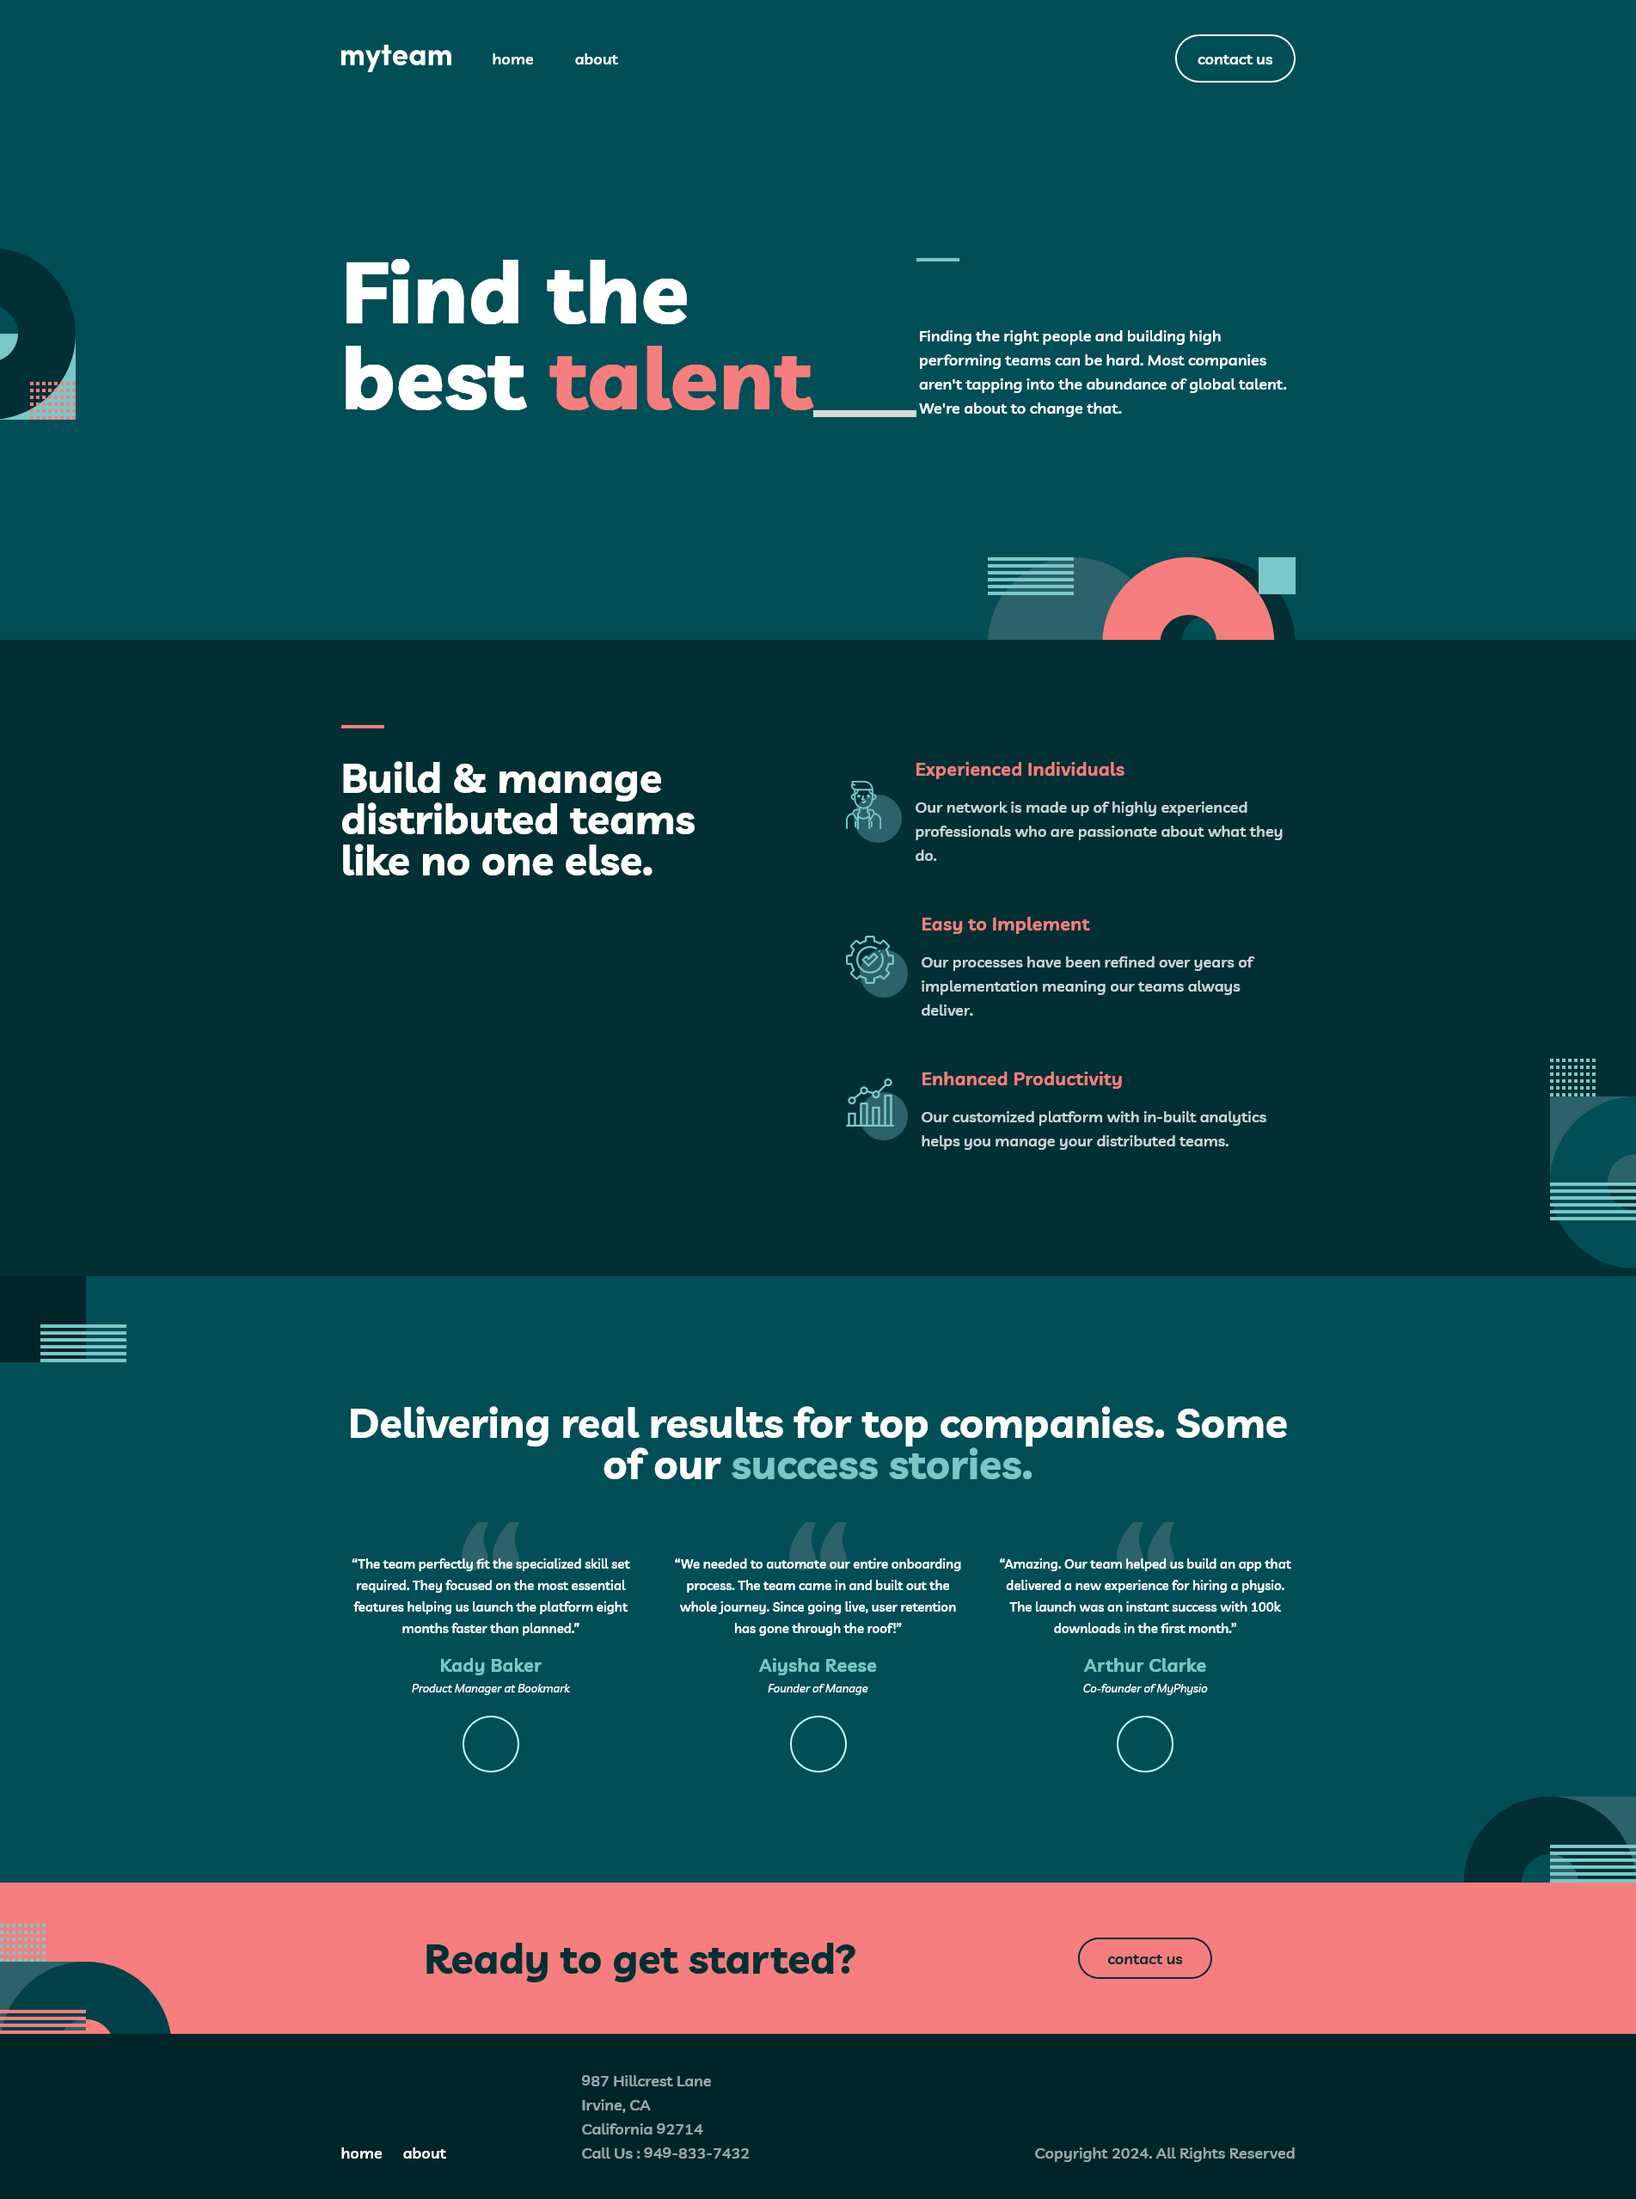
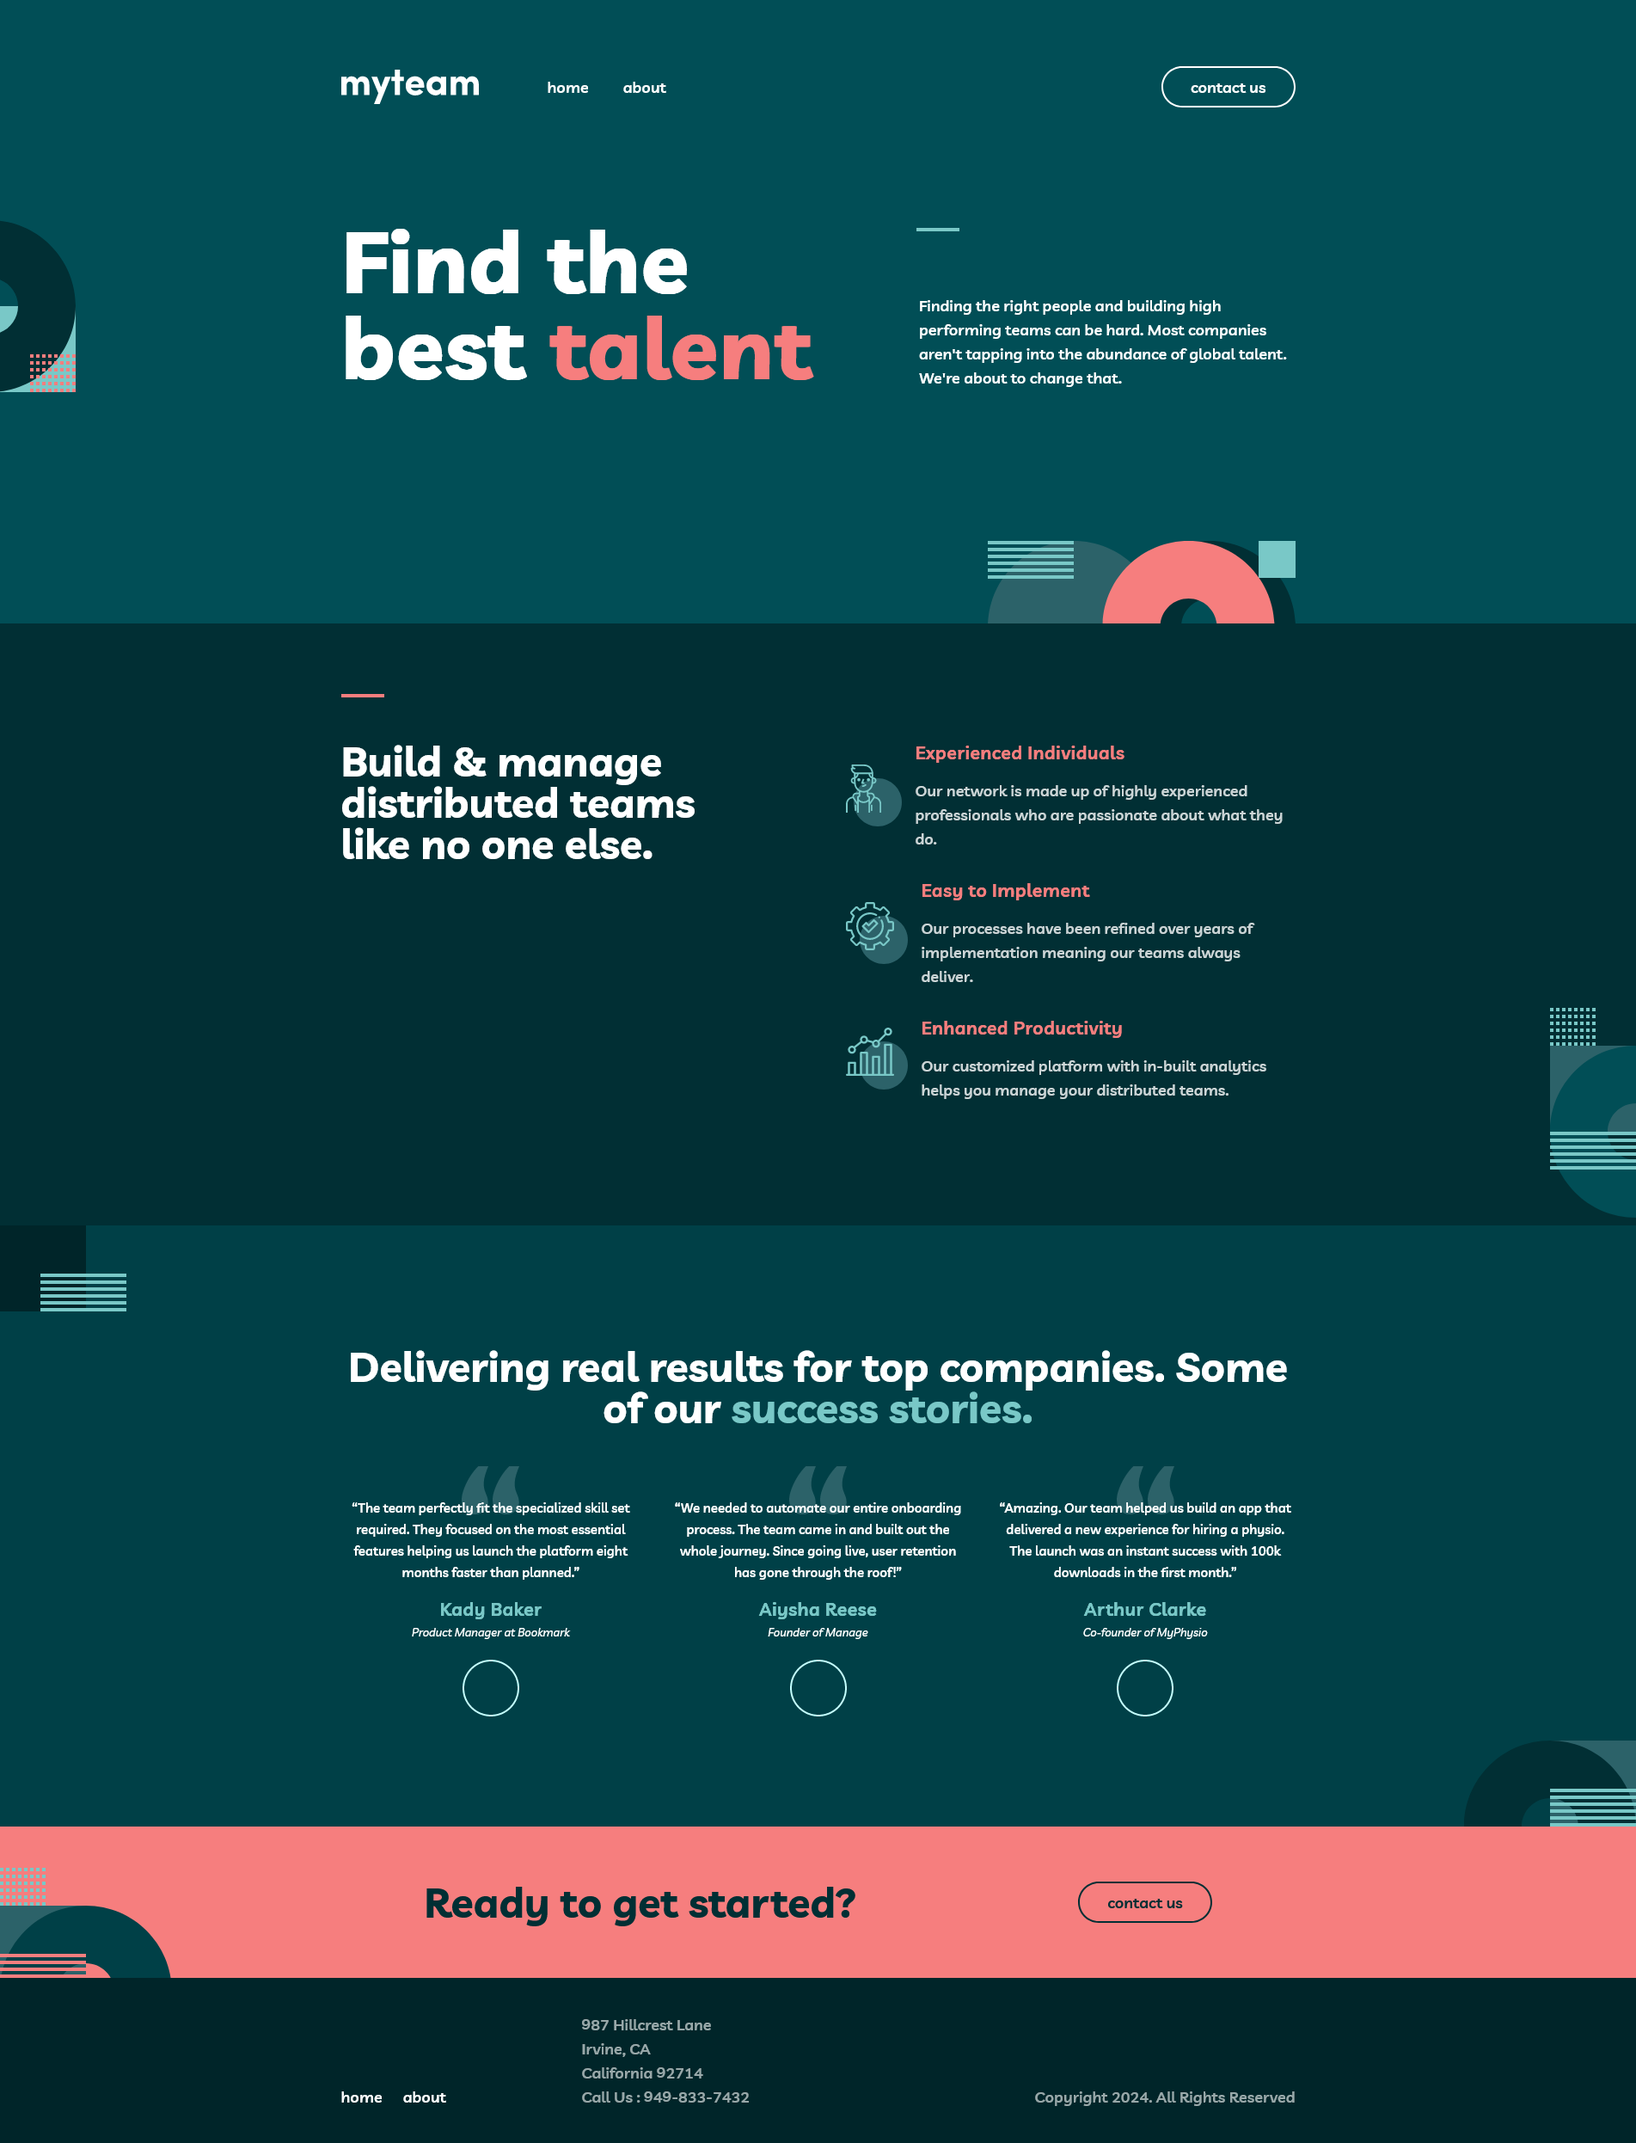
Some tweaking to get closer than expected result

diff --git a/styles/index.css b/styles/index.css
@@ -201,7 +201,7 @@ button:disabled {
 }
 
 a.primary-button-light {
-    padding: .75rem 1.5rem;
+    padding: 0.5rem 2rem;
     color: var(--primary-color-3);
     border: 2px solid var(--primary-color-3);
     background-color: transparent;
@@ -512,6 +512,10 @@ main {
     gap: 4rem;
 }
 
+.gap-5 {
+    gap: 5rem;
+}
+
 .gap-05 {
     gap: .5rem
 }
@@ -579,7 +583,7 @@ main {
     }
 
     .home {
-        padding-bottom: 14rem;
+        padding-bottom: 15rem;
     }
 
     .contact {
@@ -641,7 +645,7 @@ main {
         height: 12.5rem;
         background-image: url('../public/images/bg-pattern-home-1.svg');
         left: -7rem;
-        top: 18rem;
+        top: 16rem;
     }
 
     .mainAboutSection::before {

diff --git a/Components/Feedback.module.css b/Components/Feedback.module.css
@@ -1,5 +1,6 @@
 .feedbackSection {
     position: relative;
+    background-color: var(--secondary-color-3);
 }
 
 .feedbackSection::before {
@@ -78,13 +79,14 @@
     top: -2.25rem;
     width: 4.188rem;
     height: 3.5rem;
-    background: url('/images/icon-quotes.svg') no-repeat;
-    z-index: -1;
+    background: url('../public/images/icon-quotes.svg') no-repeat;
+    z-index: 0;
 }
 
 .feedbackMessage p {
     font-size: 0.938rem;
     line-height: 1.563rem;
+    position: relative;
 
 }
 
@@ -110,7 +112,7 @@
 @media screen and (min-width: 1440px) {
 
     .wrapper {
-        padding-top: 9.125rem;
+        padding-top: 8.75rem;
     }
 
     .feedbacks {

diff --git a/Components/Values.module.css b/Components/Values.module.css
@@ -35,7 +35,7 @@
 .valueSection h2::before {
     content: '';
     position: absolute;
-    top: -2.313rem;
+    top: -2rem;
     left: 0;
     width: 3.125rem;
     height: 4px;
@@ -45,6 +45,7 @@
 
 .valueSection h3 {
     color: var(--primary-color-2);
+    line-height: 1.75rem;
 }
 
 .valueSection p {
@@ -83,7 +84,7 @@
     }
 
     .values {
-        margin-inline: auto;
+        margin-inline: H2auto;
     }
 
     .valueSection h2 {
@@ -119,6 +120,12 @@
     .values {
         padding-top: unset;
         margin-top: 2rem;
+        gap: 2rem;
     }
+
+    .valueSection h2::before {
+        top: -3.375rem;
+    }
+
 
 }

diff --git a/Components/Navbar.js b/Components/Navbar.js
@@ -20,7 +20,7 @@ const Navbar = () => {
         <header className={`${classes.header}`}>
             <nav className={`${classes.navbar} ${isDesktopResolution ? 'max-width' : ''}`}>
                 <div className={classes.navWrapper}>
-                    <div className='d-flex gap-3 align-items-center'>
+                    <div className='d-flex gap-5 align-items-center'>
                         <div className={classes.logo}>
                             <Link href="/">
                                 <Image src={logo} alt='logo myTeam' className={classes.logoImg} />

diff --git a/Components/Hero.module.css b/Components/Hero.module.css
@@ -48,7 +48,7 @@
         grid-template-columns: 55% 45%;
         align-items: end;
         gap: 2rem;
-        padding-top: 4rem;
+        padding-top: 0;
     }
 
     .heroContainer h1,
@@ -60,8 +60,6 @@
         position: relative;
         max-width: 88%;
     }
-
-
 
 
     .heroContainer p::after {
@@ -78,7 +76,7 @@
     .heroContainer::after {
         content: '';
         position: absolute;
-        bottom: -14rem;
+        bottom: -15rem;
         width: 358px;
         height: 6rem;
         right: 0;

diff --git a/Components/Navbar.module.css b/Components/Navbar.module.css
@@ -181,7 +181,7 @@ a.link {
 
 
     .navLink {
-        gap: 3rem;
+        gap: 2.5rem;
     }
 
     .navWrapper {
@@ -196,5 +196,13 @@ a.link {
     .navWrapper {
         padding-top: 0;
         padding-bottom: 3rem;
+    }
+
+    .logoImg {
+        width: 10rem;
+    }
+
+    .header {
+        padding-top: 4.813rem;
     }
 }

diff --git a/pages/_document.js b/pages/_document.js
@@ -4,7 +4,7 @@ export default function Document() {
 
 
   return (
-    <Html lang="fr">
+    <Html lang="eng">
       <Head />
       <body>
         <Main />
